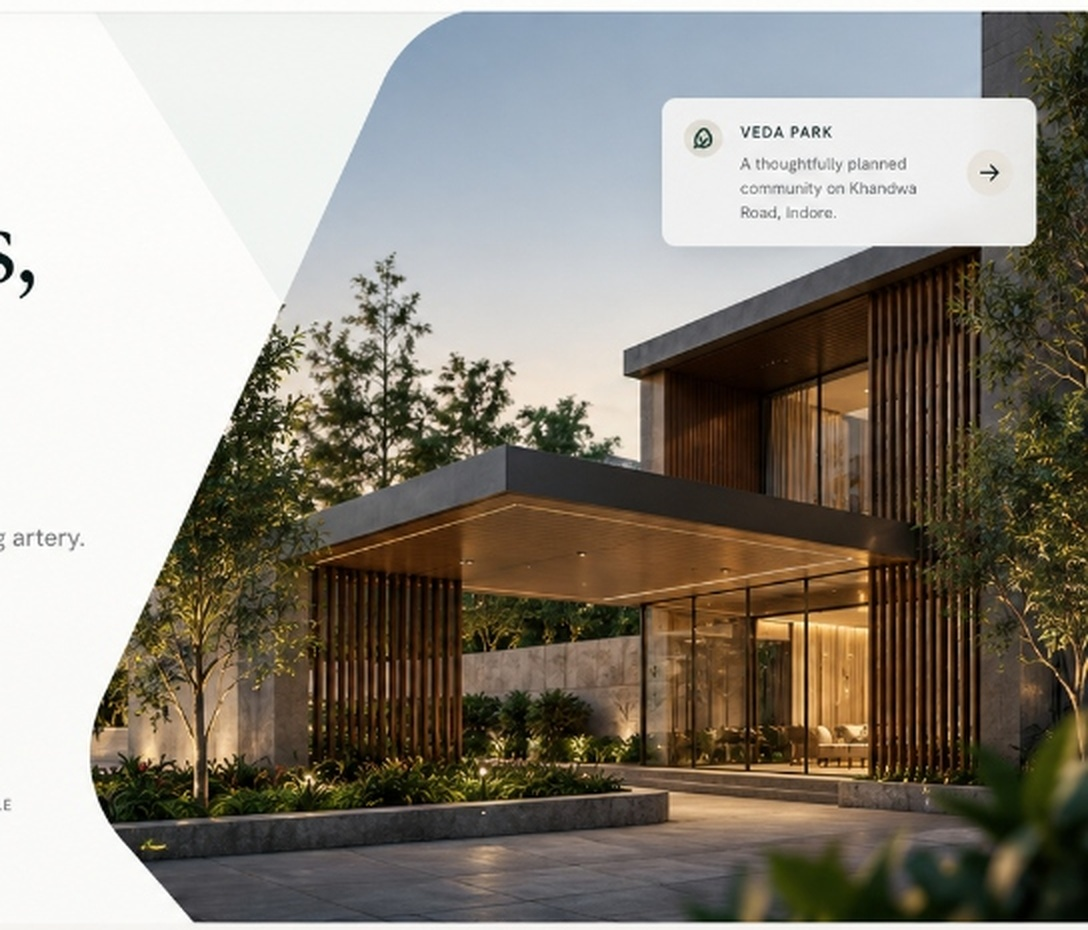
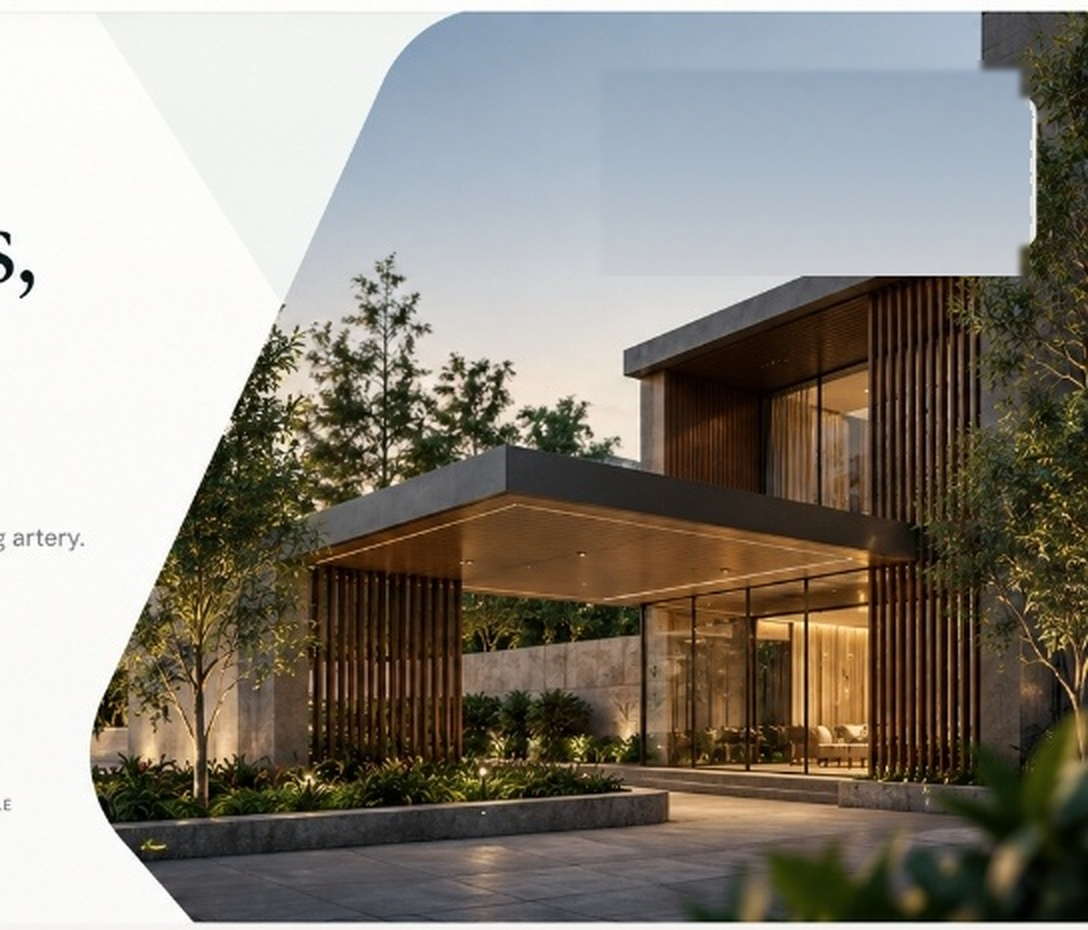
fix: Full viewport hero stage covering 100% first screen with ribbon anchored at fold

Changed region(s): [[0.5938, 0.0624, 0.9688, 0.3118]]

diff --git a/index.html b/index.html
@@ -171,174 +171,179 @@
       </defs>
     </svg>
 
-    <!-- 1. HERO SECTION (EXACT REPLICA OF REFERENCE MOCKUP) -->
-    <section class="relative bg-surface w-full overflow-hidden">
-      <div class="w-full max-w-[1440px] mx-auto grid grid-cols-1 lg:grid-cols-12 min-h-[460px] lg:min-h-[480px] xl:min-h-[510px] items-stretch">
-        
-        <!-- Left Column: Content & Metrics (~58% on 12-col = col-span-7) -->
-        <div class="lg:col-span-7 flex flex-col justify-center pt-6 pb-6 lg:py-7 px-4 sm:px-8 lg:pl-margin-edge lg:pr-6 z-10">
+    <!-- 1. FULL VIEWPORT HERO STAGE (HERO + 4-PILLAR RIBBON COVER 100% SCREEN SPACE) -->
+    <div class="w-full h-auto lg:h-[calc(100vh-64px)] lg:min-h-[540px] flex flex-col justify-between bg-surface relative overflow-hidden" style="min-height: calc(100dvh - 64px);">
+      
+      <!-- Top Hero Section (Flex-grow so it claims full viewport center) -->
+      <section class="relative bg-surface w-full overflow-hidden flex-grow flex items-center min-h-0">
+        <div class="w-full max-w-[1440px] mx-auto grid grid-cols-1 lg:grid-cols-12 h-full items-stretch my-auto">
           
-          <!-- Location Kicker -->
-          <div data-animate="fade-down" class="flex items-center gap-2 mb-2 sm:mb-3">
-            <span class="material-symbols-outlined text-metallic-gold text-base sm:text-lg">location_on</span>
-            <span class="font-body text-[10px] sm:text-xs font-semibold text-metallic-gold uppercase tracking-[0.22em]">
-              Indore &bull; Khandwa Highway Corridor
-            </span>
+          <!-- Left Column: Content & Metrics (~58% on 12-col = col-span-7) -->
+          <div class="lg:col-span-7 flex flex-col justify-center py-4 sm:py-6 lg:py-4 xl:py-6 px-4 sm:px-8 lg:pl-margin-edge lg:pr-6 z-10">
+            
+            <!-- Location Kicker -->
+            <div data-animate="fade-down" class="flex items-center gap-2 mb-2 sm:mb-2.5">
+              <span class="material-symbols-outlined text-metallic-gold text-base sm:text-lg">location_on</span>
+              <span class="font-body text-[10px] sm:text-xs font-semibold text-metallic-gold uppercase tracking-[0.22em]">
+                Indore &bull; Khandwa Highway Corridor
+              </span>
+            </div>
+
+            <!-- Main Headline -->
+            <h1 data-animate="fade-up" data-delay="100" class="font-display text-3xl sm:text-4xl lg:text-[40px] xl:text-[48px] leading-[1.1] text-on-surface tracking-tight mb-2.5 sm:mb-3.5">
+              Real Estate Decisions,<br/>
+              Backed by <span class="italic font-normal text-metallic-gold">Insight.</span>
+            </h1>
+
+            <!-- Subheadline Description -->
+            <p data-animate="fade-up" data-delay="200" class="font-body text-xs sm:text-[13px] lg:text-[13.5px] text-on-surface-variant leading-relaxed max-w-lg mb-4 sm:mb-5">
+              Strategic real estate advisory and curated land acquisitions for institutional capital, family offices, and discerning investors. Presenting <strong class="text-on-surface font-semibold">Veda Park</strong> &mdash; delivering <strong class="text-on-surface font-semibold">up to 30% appreciation potential</strong> in Central India's fastest growing artery.
+            </p>
+
+            <!-- Buttons Row -->
+            <div data-animate="fade-up" data-delay="300" class="flex flex-wrap items-center gap-3 sm:gap-4 mb-4 sm:mb-5">
+              <a href="/veda-park" class="inline-flex items-center justify-center px-5 sm:px-7 py-3 bg-forest-deep text-surface-bright font-body text-xs font-bold uppercase tracking-[0.14em] rounded-[4px] hover:bg-forest-noir transition-all duration-300 shadow-sm group">
+                <span>Explore Veda Park</span>
+                <span class="material-symbols-outlined ml-2 text-sm group-hover:translate-x-1 transition-transform">arrow_forward</span>
+              </a>
+              <button data-open-partner-modal class="inline-flex items-center justify-center px-4 sm:px-6 py-3 bg-surface-bright border border-[#DFD9CE] text-on-surface font-body text-xs font-bold uppercase tracking-[0.12em] rounded-[4px] hover:bg-surface-dim hover:border-[#C8BFAD] transition-all duration-300">
+                <span class="material-symbols-outlined mr-2 text-base text-forest-deep">calendar_month</span>
+                <span>Consult a Principal</span>
+              </button>
+            </div>
+
+            <!-- Mobile Hero Image (Only on < lg screens) -->
+            <div class="lg:hidden relative w-full h-56 sm:h-72 my-4 rounded-2xl overflow-hidden shadow-lg border border-outline-variant">
+              <img src="/images/hero-villa-2x.jpg" alt="Veda Park Luxury Villa Development" class="w-full h-full object-cover" />
+              <div class="absolute top-3 right-3 bg-surface-bright/95 backdrop-blur-md border border-outline-variant p-2.5 rounded-xl shadow-md flex items-center gap-2 max-w-[250px]">
+                <div class="w-6 h-6 rounded-full bg-[#E8F0EB] text-forest-deep flex items-center justify-center flex-shrink-0">
+                  <span class="material-symbols-outlined text-sm">eco</span>
+                </div>
+                <div class="flex-grow min-w-0">
+                  <span class="block font-body text-[9px] font-bold text-forest-deep uppercase tracking-wider">VEDA PARK</span>
+                  <p class="font-body text-[9px] text-on-surface-variant leading-tight truncate">Thoughtfully planned on Khandwa Rd.</p>
+                </div>
+                <a href="/veda-park" class="w-6 h-6 rounded-full bg-[#EAE4D7] text-forest-deep flex items-center justify-center flex-shrink-0">
+                  <span class="material-symbols-outlined text-xs">arrow_forward</span>
+                </a>
+              </div>
+            </div>
+
+            <!-- 3-Metrics Stat Bar -->
+            <div data-animate="fade-up" data-delay="400" class="grid grid-cols-3 gap-2 sm:gap-4 pt-3 sm:pt-4 border-t border-outline-variant">
+              <!-- Stat 1 -->
+              <div class="flex items-center gap-2 sm:gap-3">
+                <div class="w-8 h-8 sm:w-9 sm:h-9 rounded-full bg-[#F5EEDF] flex items-center justify-center flex-shrink-0 text-metallic-gold">
+                  <span class="material-symbols-outlined text-base sm:text-lg">bar_chart</span>
+                </div>
+                <div>
+                  <p class="font-headline text-base sm:text-lg xl:text-xl font-bold text-on-surface leading-none" data-counter="30" data-counter-prefix="Up to " data-counter-suffix="%">Up to 30%</p>
+                  <p class="text-[9px] sm:text-[10px] font-body text-outline uppercase tracking-wider mt-0.5">Projected Return</p>
+                </div>
+              </div>
+              <!-- Stat 2 -->
+              <div class="flex items-center gap-2 sm:gap-3 border-l border-outline-variant pl-2 sm:pl-4">
+                <div class="w-8 h-8 sm:w-9 sm:h-9 rounded-full bg-[#F5EEDF] flex items-center justify-center flex-shrink-0 text-metallic-gold">
+                  <span class="material-symbols-outlined text-base sm:text-lg">pin_drop</span>
+                </div>
+                <div>
+                  <p class="font-headline text-base sm:text-lg xl:text-xl font-bold text-on-surface leading-none" data-counter="84">84</p>
+                  <p class="text-[9px] sm:text-[10px] font-body text-outline uppercase tracking-wider mt-0.5">Freehold Plots</p>
+                </div>
+              </div>
+              <!-- Stat 3 -->
+              <div class="flex items-center gap-2 sm:gap-3 border-l border-outline-variant pl-2 sm:pl-4">
+                <div class="w-8 h-8 sm:w-9 sm:h-9 rounded-full bg-[#F5EEDF] flex items-center justify-center flex-shrink-0 text-metallic-gold">
+                  <span class="material-symbols-outlined text-base sm:text-lg">description</span>
+                </div>
+                <div>
+                  <p class="font-headline text-base sm:text-lg xl:text-xl font-bold text-on-surface leading-none" data-counter="100" data-counter-suffix="%">100%</p>
+                  <p class="text-[9px] sm:text-[10px] font-body text-outline uppercase tracking-wider mt-0.5">Clear Title</p>
+                </div>
+              </div>
+            </div>
+
           </div>
 
-          <!-- Main Headline -->
-          <h1 data-animate="fade-up" data-delay="100" class="font-display text-3xl sm:text-4xl lg:text-[46px] xl:text-[52px] leading-[1.08] text-on-surface tracking-tight mb-3 sm:mb-4">
-            Real Estate Decisions,<br/>
-            Backed by <span class="italic font-normal text-metallic-gold">Insight.</span>
-          </h1>
+          <!-- Right Column: Organic Curved Luxury Villa Photo (Desktop) -->
+          <div class="hidden lg:block lg:col-span-5 relative w-full h-full min-h-[340px] overflow-hidden">
+            <!-- Curved Image Container -->
+            <div class="w-full h-full relative" style="clip-path: url(#hero-organic-curve); -webkit-clip-path: url(#hero-organic-curve);">
+              <img 
+                src="/images/hero-villa-2x.jpg" 
+                alt="Veda Park Luxury Architectural Development at Dusk" 
+                class="w-full h-full object-cover object-center scale-[1.01] hover:scale-105 transition-transform duration-700 ease-out" 
+              />
+            </div>
 
-          <!-- Subheadline Description -->
-          <p data-animate="fade-up" data-delay="200" class="font-body text-xs sm:text-[13px] lg:text-[14px] text-on-surface-variant leading-relaxed max-w-lg mb-5 sm:mb-6">
-            Strategic real estate advisory and curated land acquisitions for institutional capital, family offices, and discerning investors. Presenting <strong class="text-on-surface font-semibold">Veda Park</strong> &mdash; delivering <strong class="text-on-surface font-semibold">up to 30% appreciation potential</strong> in Central India's fastest growing artery.
-          </p>
-
-          <!-- Buttons Row -->
-          <div data-animate="fade-up" data-delay="300" class="flex flex-wrap items-center gap-3 sm:gap-4 mb-5 sm:mb-7">
-            <a href="/veda-park" class="inline-flex items-center justify-center px-5 sm:px-7 py-3 bg-forest-deep text-surface-bright font-body text-xs font-bold uppercase tracking-[0.14em] rounded-[4px] hover:bg-forest-noir transition-all duration-300 shadow-sm group">
-              <span>Explore Veda Park</span>
-              <span class="material-symbols-outlined ml-2 text-sm group-hover:translate-x-1 transition-transform">arrow_forward</span>
-            </a>
-            <button data-open-partner-modal class="inline-flex items-center justify-center px-4 sm:px-6 py-3 bg-surface-bright border border-[#DFD9CE] text-on-surface font-body text-xs font-bold uppercase tracking-[0.12em] rounded-[4px] hover:bg-surface-dim hover:border-[#C8BFAD] transition-all duration-300">
-              <span class="material-symbols-outlined mr-2 text-base text-forest-deep">calendar_month</span>
-              <span>Consult a Principal</span>
-            </button>
-          </div>
-
-          <!-- Mobile Hero Image (Only on < lg screens) -->
-          <div class="lg:hidden relative w-full h-56 sm:h-72 my-4 rounded-2xl overflow-hidden shadow-lg border border-outline-variant">
-            <img src="/images/hero-villa-2x.jpg" alt="Veda Park Luxury Villa Development" class="w-full h-full object-cover" />
-            <div class="absolute top-3 right-3 bg-surface-bright/95 backdrop-blur-md border border-outline-variant p-2 rounded-xl shadow-md flex items-center gap-2 max-w-[250px]">
-              <div class="w-6 h-6 rounded-full bg-[#E8F0EB] text-forest-deep flex items-center justify-center flex-shrink-0">
-                <span class="material-symbols-outlined text-sm">eco</span>
+            <!-- Floating Veda Park Card at Top Right (Pristine background with no ghost text) -->
+            <div class="absolute top-6 right-6 xl:right-10 bg-surface-bright/95 backdrop-blur-md border border-outline-variant p-3 sm:p-3.5 rounded-xl shadow-xl flex items-center gap-3 max-w-[280px] xl:max-w-[305px] z-20 transition-transform duration-300 hover:scale-[1.02]">
+              <div class="w-8 h-8 rounded-full bg-[#E8F0EB] text-forest-deep flex items-center justify-center flex-shrink-0">
+                <span class="material-symbols-outlined text-lg">eco</span>
               </div>
               <div class="flex-grow min-w-0">
-                <span class="block font-body text-[9px] font-bold text-forest-deep uppercase tracking-wider">VEDA PARK</span>
-                <p class="font-body text-[9px] text-on-surface-variant leading-tight truncate">Thoughtfully planned on Khandwa Rd.</p>
+                <span class="block font-body text-[10px] sm:text-[11px] font-bold text-forest-deep uppercase tracking-widest">VEDA PARK</span>
+                <p class="font-body text-[9.5px] sm:text-[10.5px] text-on-surface-variant leading-tight mt-0.5">A thoughtfully planned community on Khandwa Road, Indore.</p>
               </div>
-              <a href="/veda-park" class="w-6 h-6 rounded-full bg-[#EAE4D7] text-forest-deep flex items-center justify-center flex-shrink-0">
+              <a href="/veda-park" class="w-7 h-7 rounded-full bg-[#EAE4D7] text-forest-deep flex items-center justify-center flex-shrink-0 hover:bg-forest-deep hover:text-white transition-colors" aria-label="Explore Veda Park">
                 <span class="material-symbols-outlined text-xs">arrow_forward</span>
               </a>
             </div>
           </div>
 
-          <!-- 3-Metrics Stat Bar -->
-          <div data-animate="fade-up" data-delay="400" class="grid grid-cols-3 gap-2 sm:gap-6 pt-4 sm:pt-5 border-t border-outline-variant">
-            <!-- Stat 1 -->
-            <div class="flex items-center gap-2 sm:gap-3">
-              <div class="w-9 h-9 sm:w-10 sm:h-10 rounded-full bg-[#F5EEDF] flex items-center justify-center flex-shrink-0 text-metallic-gold">
-                <span class="material-symbols-outlined text-lg sm:text-xl">bar_chart</span>
-              </div>
-              <div>
-                <p class="font-headline text-lg sm:text-2xl font-bold text-on-surface leading-none" data-counter="30" data-counter-prefix="Up to " data-counter-suffix="%">Up to 30%</p>
-                <p class="text-[9px] sm:text-[10px] font-body text-outline uppercase tracking-wider mt-1">Projected Return</p>
-              </div>
+        </div>
+      </section>
+
+      <!-- 2. FOUR-PILLAR FEATURE RIBBON (Anchored at the base of the full-screen stage) -->
+      <section class="w-full bg-[#F6F4EE] border-t border-b border-outline-variant py-2.5 sm:py-3.5 px-4 sm:px-margin-edge flex-shrink-0">
+        <div class="max-w-7xl mx-auto grid grid-cols-2 lg:grid-cols-4 gap-3 lg:gap-0">
+          <!-- Feature 1 -->
+          <div class="flex items-center gap-3 lg:pr-6 lg:border-r border-outline-variant">
+            <div class="text-forest-deep flex-shrink-0">
+              <svg class="w-5 h-5 sm:w-6 sm:h-6 stroke-forest-deep stroke-[1.8] fill-none" viewBox="0 0 24 24"><path d="M4 22L9 2M20 22L15 2M12 5V7M12 11V13M12 17V19"/></svg>
             </div>
-            <!-- Stat 2 -->
-            <div class="flex items-center gap-2 sm:gap-3 border-l border-outline-variant pl-2 sm:pl-5">
-              <div class="w-9 h-9 sm:w-10 sm:h-10 rounded-full bg-[#F5EEDF] flex items-center justify-center flex-shrink-0 text-metallic-gold">
-                <span class="material-symbols-outlined text-lg sm:text-xl">pin_drop</span>
-              </div>
-              <div>
-                <p class="font-headline text-lg sm:text-2xl font-bold text-on-surface leading-none" data-counter="84">84</p>
-                <p class="text-[9px] sm:text-[10px] font-body text-outline uppercase tracking-wider mt-1">Freehold Plots</p>
-              </div>
-            </div>
-            <!-- Stat 3 -->
-            <div class="flex items-center gap-2 sm:gap-3 border-l border-outline-variant pl-2 sm:pl-5">
-              <div class="w-9 h-9 sm:w-10 sm:h-10 rounded-full bg-[#F5EEDF] flex items-center justify-center flex-shrink-0 text-metallic-gold">
-                <span class="material-symbols-outlined text-lg sm:text-xl">description</span>
-              </div>
-              <div>
-                <p class="font-headline text-lg sm:text-2xl font-bold text-on-surface leading-none" data-counter="100" data-counter-suffix="%">100%</p>
-                <p class="text-[9px] sm:text-[10px] font-body text-outline uppercase tracking-wider mt-1">Clear Title</p>
-              </div>
+            <div>
+              <p class="font-body text-xs sm:text-[13px] font-bold text-forest-deep leading-snug">Prime Khandwa Road</p>
+              <p class="font-body text-[10px] sm:text-[11px] text-outline">Location</p>
             </div>
           </div>
 
-        </div>
-
-        <!-- Right Column: Organic Curved Luxury Villa Photo (Desktop) -->
-        <div class="hidden lg:block lg:col-span-5 relative w-full h-full min-h-[460px] lg:min-h-[480px] xl:min-h-[510px] overflow-hidden">
-          <!-- Curved Image Container -->
-          <div class="w-full h-full relative" style="clip-path: url(#hero-organic-curve); -webkit-clip-path: url(#hero-organic-curve);">
-            <img 
-              src="/images/hero-villa-2x.jpg" 
-              alt="Veda Park Luxury Architectural Development at Dusk" 
-              class="w-full h-full object-cover object-center scale-[1.01] hover:scale-105 transition-transform duration-700 ease-out" 
-            />
-          </div>
-
-          <!-- Floating Veda Park Card at Top Right -->
-          <div class="absolute top-6 right-6 xl:right-8 bg-surface-bright/95 backdrop-blur-md border border-outline-variant p-3 sm:p-3.5 rounded-xl shadow-xl flex items-center gap-3 max-w-[280px] xl:max-w-[300px] z-20 transition-transform duration-300 hover:scale-[1.02]">
-            <div class="w-8 h-8 rounded-full bg-[#E8F0EB] text-forest-deep flex items-center justify-center flex-shrink-0">
-              <span class="material-symbols-outlined text-lg">eco</span>
+          <!-- Feature 2 -->
+          <div class="flex items-center gap-3 lg:px-6 lg:border-r border-outline-variant">
+            <div class="text-forest-deep flex-shrink-0">
+              <svg class="w-5 h-5 sm:w-6 sm:h-6 stroke-forest-deep stroke-[1.8] fill-none" viewBox="0 0 24 24"><path d="M12 22v-9M8 22v-5M15.5 8a3.5 3.5 0 00-6.5-1.5 4 4 0 00-4 4 3.5 3.5 0 002.5 3.4 3 3 0 005.5.6 3.5 3.5 0 002.5-6.5z"/></svg>
             </div>
-            <div class="flex-grow min-w-0">
-              <span class="block font-body text-[10px] sm:text-[11px] font-bold text-forest-deep uppercase tracking-widest">VEDA PARK</span>
-              <p class="font-body text-[10px] sm:text-[11px] text-on-surface-variant leading-tight mt-0.5">A thoughtfully planned community on Khandwa Road, Indore.</p>
+            <div>
+              <p class="font-body text-xs sm:text-[13px] font-bold text-forest-deep leading-snug">9.0M & 10.5M Wide</p>
+              <p class="font-body text-[10px] sm:text-[11px] text-outline">Internal Boulevards</p>
             </div>
-            <a href="/veda-park" class="w-7 h-7 rounded-full bg-[#EAE4D7] text-forest-deep flex items-center justify-center flex-shrink-0 hover:bg-forest-deep hover:text-white transition-colors" aria-label="Explore Veda Park">
-              <span class="material-symbols-outlined text-xs">arrow_forward</span>
-            </a>
+          </div>
+
+          <!-- Feature 3 -->
+          <div class="flex items-center gap-3 lg:px-6 lg:border-r border-outline-variant">
+            <div class="text-forest-deep flex-shrink-0">
+              <svg class="w-5 h-5 sm:w-6 sm:h-6 stroke-forest-deep stroke-[1.8] fill-none" viewBox="0 0 24 24"><path d="M3 21h18M3 10h18M5 10v11M9 10v11M15 10v11M19 10v11M12 3L3 10h18L12 3z"/></svg>
+            </div>
+            <div>
+              <p class="font-body text-xs sm:text-[13px] font-bold text-forest-deep leading-snug">Gateway to Simrol & IIT</p>
+              <p class="font-body text-[10px] sm:text-[11px] text-outline">Indore Corridor</p>
+            </div>
+          </div>
+
+          <!-- Feature 4 -->
+          <div class="flex items-center gap-3 lg:pl-6">
+            <div class="text-forest-deep flex-shrink-0">
+              <svg class="w-5 h-5 sm:w-6 sm:h-6 stroke-forest-deep stroke-[2] fill-none" viewBox="0 0 24 24"><path d="M22 7l-8.5 8.5-5-5L2 17M22 7h-6M22 7v6"/></svg>
+            </div>
+            <div>
+              <p class="font-body text-xs sm:text-[13px] font-bold text-forest-deep leading-snug">Strong Appreciation</p>
+              <p class="font-body text-[10px] sm:text-[11px] text-outline">Potential</p>
+            </div>
           </div>
         </div>
+      </section>
 
-      </div>
-    </section>
-
-    <!-- 2. FOUR-PILLAR FEATURE RIBBON (EXACT REPLICA OF REFERENCE MOCKUP) -->
-    <section class="w-full bg-[#F6F4EE] border-t border-b border-outline-variant py-3 sm:py-3.5 px-4 sm:px-margin-edge">
-      <div class="max-w-7xl mx-auto grid grid-cols-2 lg:grid-cols-4 gap-3 lg:gap-0">
-        <!-- Feature 1 -->
-        <div class="flex items-center gap-3 lg:pr-6 lg:border-r border-outline-variant">
-          <div class="text-forest-deep flex-shrink-0">
-            <svg class="w-6 h-6 stroke-forest-deep stroke-[1.8] fill-none" viewBox="0 0 24 24"><path d="M4 22L9 2M20 22L15 2M12 5V7M12 11V13M12 17V19"/></svg>
-          </div>
-          <div>
-            <p class="font-body text-xs sm:text-[13px] font-bold text-forest-deep leading-snug">Prime Khandwa Road</p>
-            <p class="font-body text-[10px] sm:text-[11px] text-outline">Location</p>
-          </div>
-        </div>
-
-        <!-- Feature 2 -->
-        <div class="flex items-center gap-3 lg:px-6 lg:border-r border-outline-variant">
-          <div class="text-forest-deep flex-shrink-0">
-            <svg class="w-6 h-6 stroke-forest-deep stroke-[1.8] fill-none" viewBox="0 0 24 24"><path d="M12 22v-9M8 22v-5M15.5 8a3.5 3.5 0 00-6.5-1.5 4 4 0 00-4 4 3.5 3.5 0 002.5 3.4 3 3 0 005.5.6 3.5 3.5 0 002.5-6.5z"/></svg>
-          </div>
-          <div>
-            <p class="font-body text-xs sm:text-[13px] font-bold text-forest-deep leading-snug">9.0M & 10.5M Wide</p>
-            <p class="font-body text-[10px] sm:text-[11px] text-outline">Internal Boulevards</p>
-          </div>
-        </div>
-
-        <!-- Feature 3 -->
-        <div class="flex items-center gap-3 lg:px-6 lg:border-r border-outline-variant">
-          <div class="text-forest-deep flex-shrink-0">
-            <svg class="w-6 h-6 stroke-forest-deep stroke-[1.8] fill-none" viewBox="0 0 24 24"><path d="M3 21h18M3 10h18M5 10v11M9 10v11M15 10v11M19 10v11M12 3L3 10h18L12 3z"/></svg>
-          </div>
-          <div>
-            <p class="font-body text-xs sm:text-[13px] font-bold text-forest-deep leading-snug">Gateway to Simrol & IIT</p>
-            <p class="font-body text-[10px] sm:text-[11px] text-outline">Indore Corridor</p>
-          </div>
-        </div>
-
-        <!-- Feature 4 -->
-        <div class="flex items-center gap-3 lg:pl-6">
-          <div class="text-forest-deep flex-shrink-0">
-            <svg class="w-6 h-6 stroke-forest-deep stroke-[2] fill-none" viewBox="0 0 24 24"><path d="M22 7l-8.5 8.5-5-5L2 17M22 7h-6M22 7v6"/></svg>
-          </div>
-          <div>
-            <p class="font-body text-xs sm:text-[13px] font-bold text-forest-deep leading-snug">Strong Appreciation</p>
-            <p class="font-body text-[10px] sm:text-[11px] text-outline">Potential</p>
-          </div>
-        </div>
-      </div>
-    </section>
+    </div>
 
     <!-- 3. FEATURED ACTIVE PROJECT SHOWCASE — VEDA PARK (IMAGE 2 REPLICA) -->
     <section class="py-10 sm:py-14 md:py-16 px-4 sm:px-margin-edge bg-surface">
